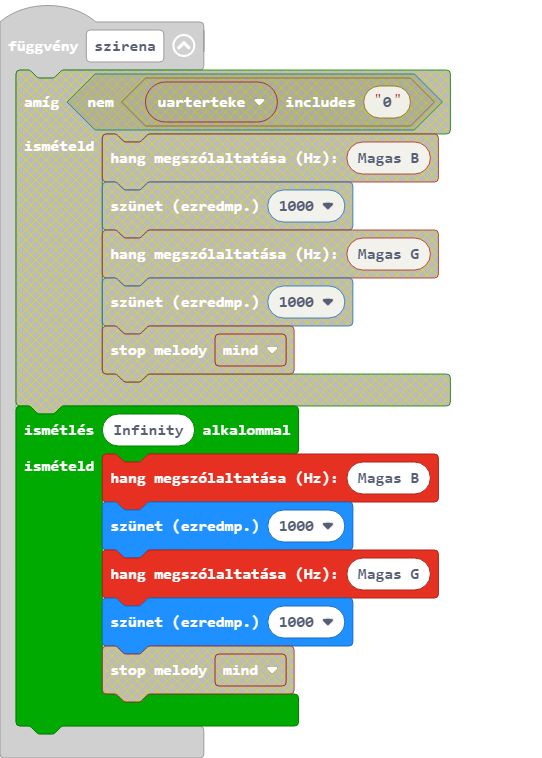
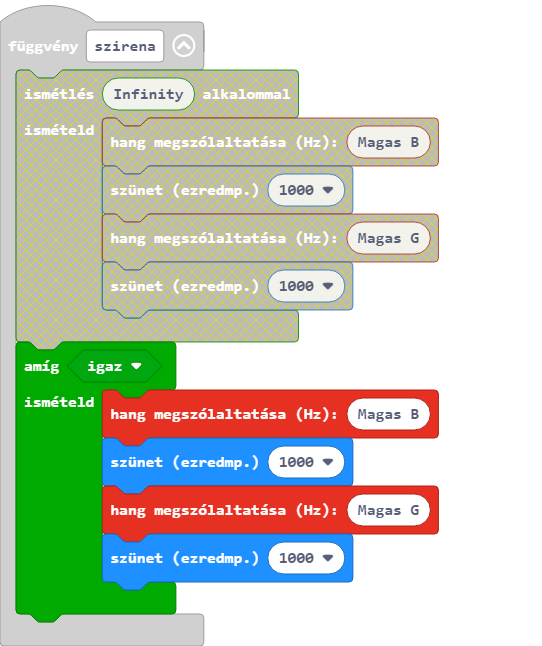
Update main.blocks, main.ts

diff --git a/main.ts b/main.ts
@@ -15,8 +15,11 @@ bluetooth.onUartDataReceived(serial.delimiters(Delimiters.NewLine), function () 
     basic.showString(uarterteke)
 })
 function szirena () {
-    for (let index = 0; index < 1065452456120451; index++) {
-    	
+    while (true) {
+        music.ringTone(988)
+        basic.pause(1000)
+        music.ringTone(784)
+        basic.pause(1000)
     }
 }
 let ajto = false
